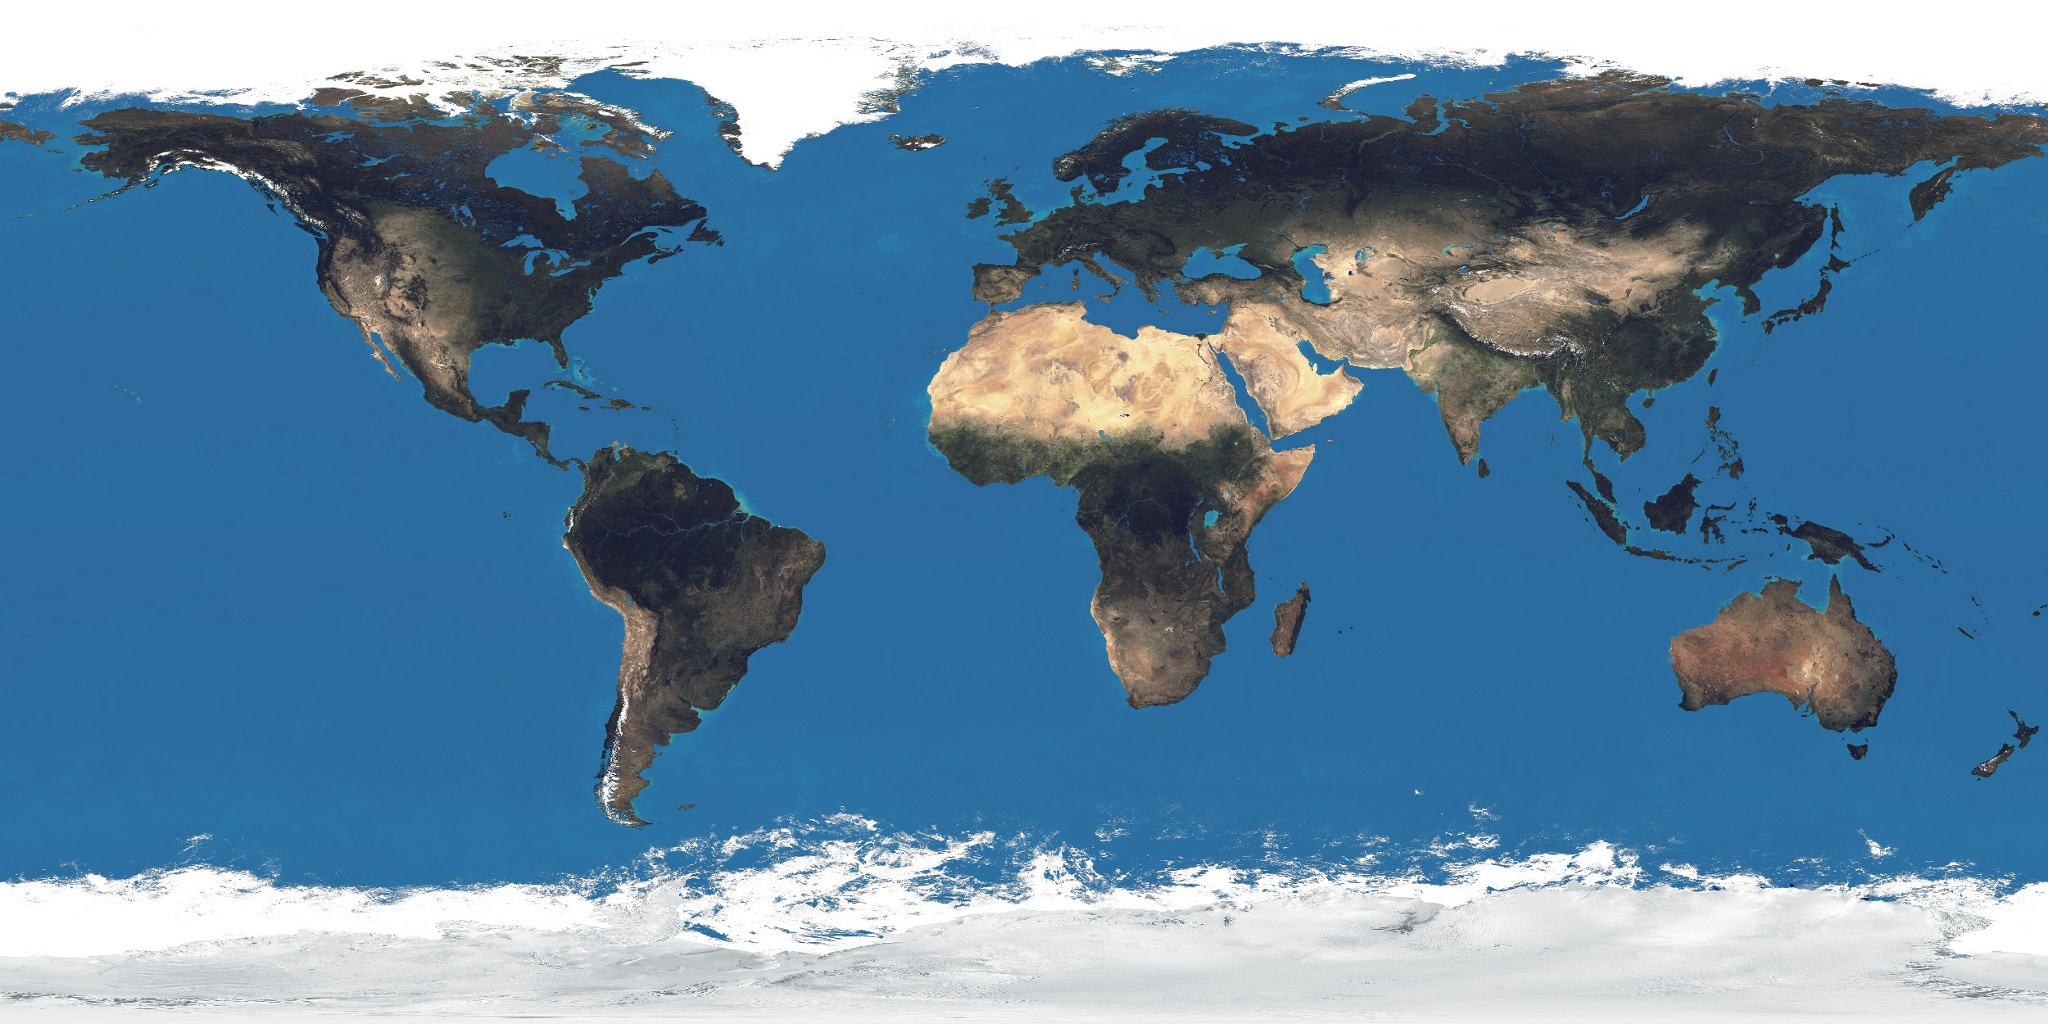
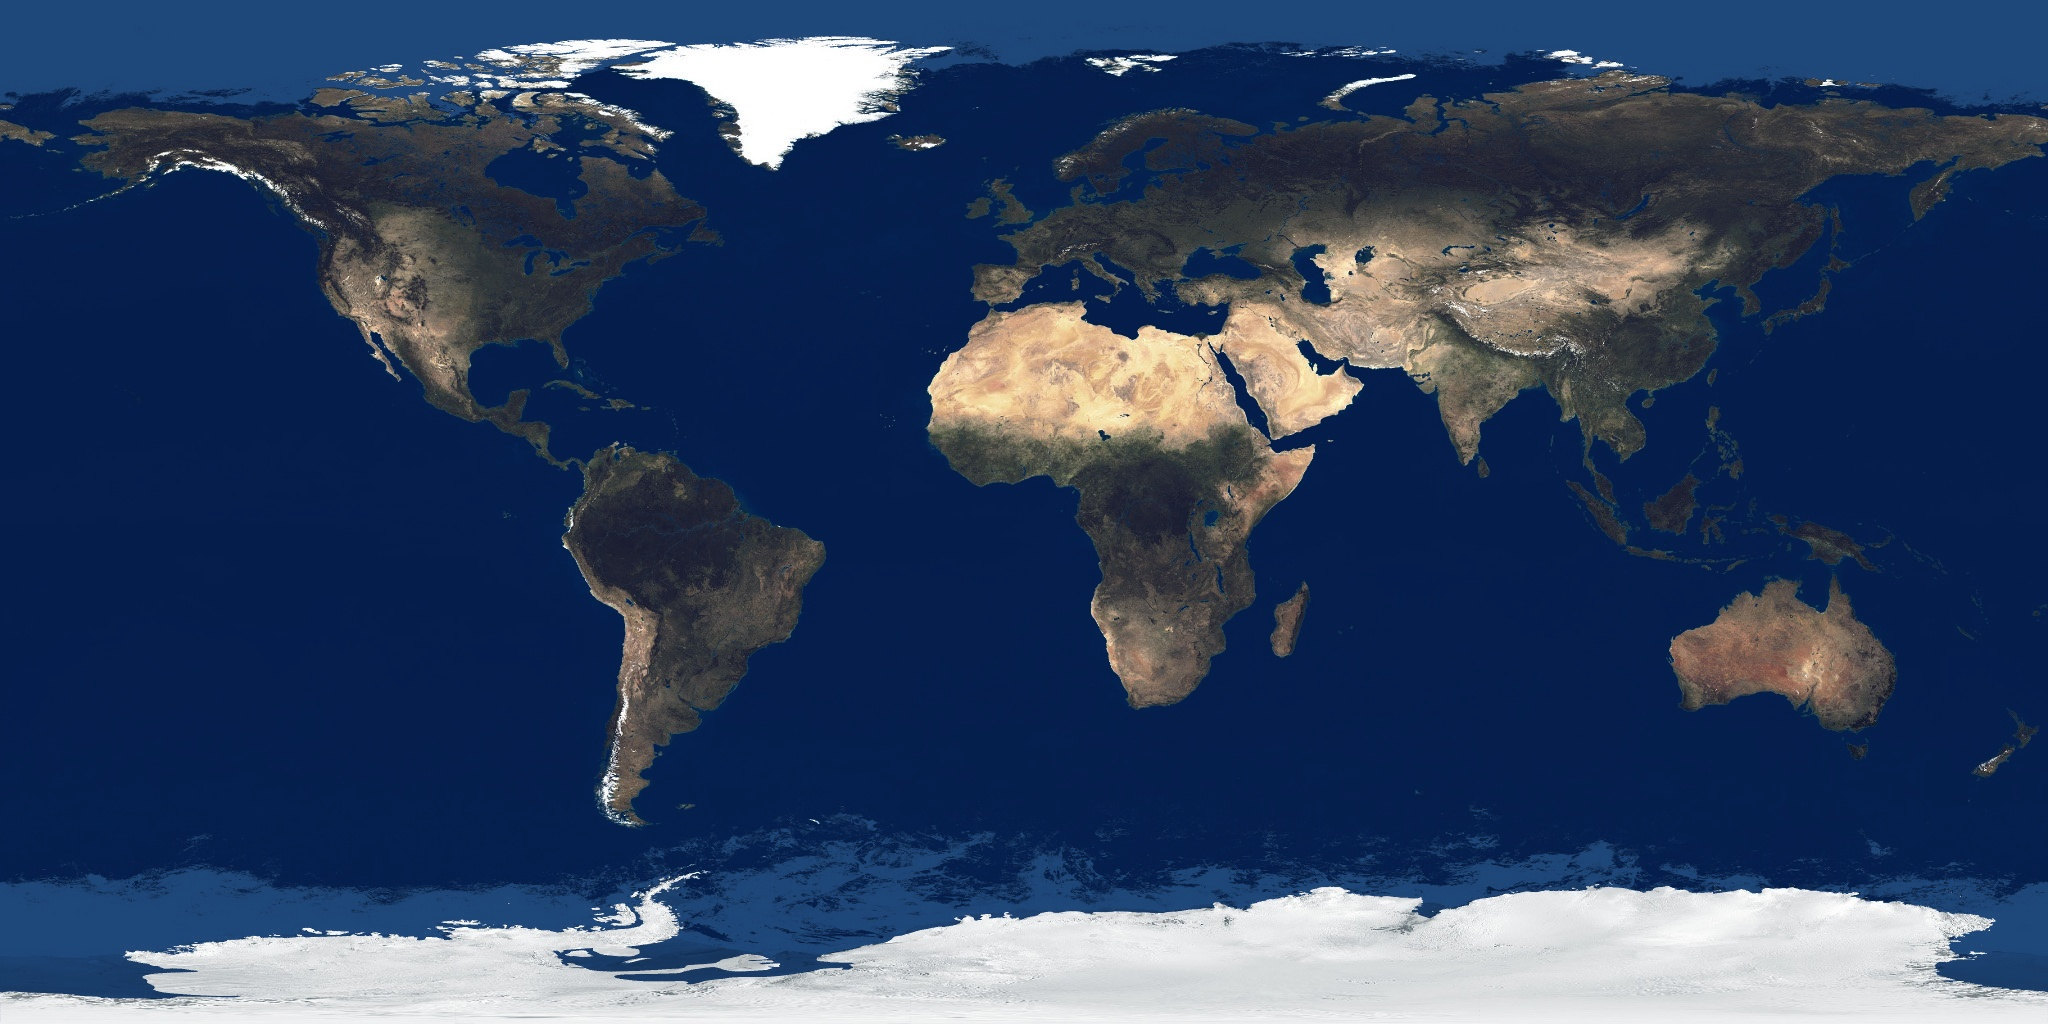
style: enhance photorealistic deep ocean grading and lighting for realistic orbital view

diff --git a/frontend/index.html b/frontend/index.html
@@ -1849,7 +1849,7 @@
           const planetGroup = new THREE.Group();
           scene.add(planetGroup);
 
-          // 1. Earth Sphere with Normal Relief & Deep Oceanic Blue Water
+          // 1. Earth Sphere with Normal Relief & Photorealistic Deep Oceanic Navy Water
           const earthMesh = new THREE.Mesh(
             new THREE.SphereGeometry(2.0, 64, 64),
             new THREE.MeshPhongMaterial({
@@ -1857,11 +1857,11 @@
               normalMap: normalMap,
               normalScale: new THREE.Vector2(0.5, 0.5),
               specularMap: specularMap,
-              specular: new THREE.Color('#38bdf8'),
-              shininess: 18,
-              emissive: new THREE.Color('#0369a1'),
+              specular: new THREE.Color('#1d4ed8'),
+              shininess: 24,
+              emissive: new THREE.Color('#02142b'),
               emissiveMap: earthMap,
-              emissiveIntensity: 0.18
+              emissiveIntensity: 0.06
             })
           );
           planetGroup.add(earthMesh);
@@ -1879,13 +1879,13 @@
           );
           planetGroup.add(cloudsMesh);
 
-          // 3. Planetary Lighting: Upper-left Directional Sunlight & Deep Azure Space Fill
-          scene.add(new THREE.AmbientLight(0xd5e7ff, 1.45));
-          const sun = new THREE.DirectionalLight(0xfff9f0, 3.2);
+          // 3. Planetary Lighting: True Orbital Sunlight & Deep Space Rim Illumination
+          scene.add(new THREE.AmbientLight(0xc8d6e5, 1.15));
+          const sun = new THREE.DirectionalLight(0xfff8ee, 3.2);
           sun.position.set(-6, 4, 7);
           scene.add(sun);
 
-          const blueFill = new THREE.PointLight(0x0284c7, 2.2, 20);
+          const blueFill = new THREE.PointLight(0x061a38, 1.2, 25);
           blueFill.position.set(-4, -2, -1);
           scene.add(blueFill);
 
